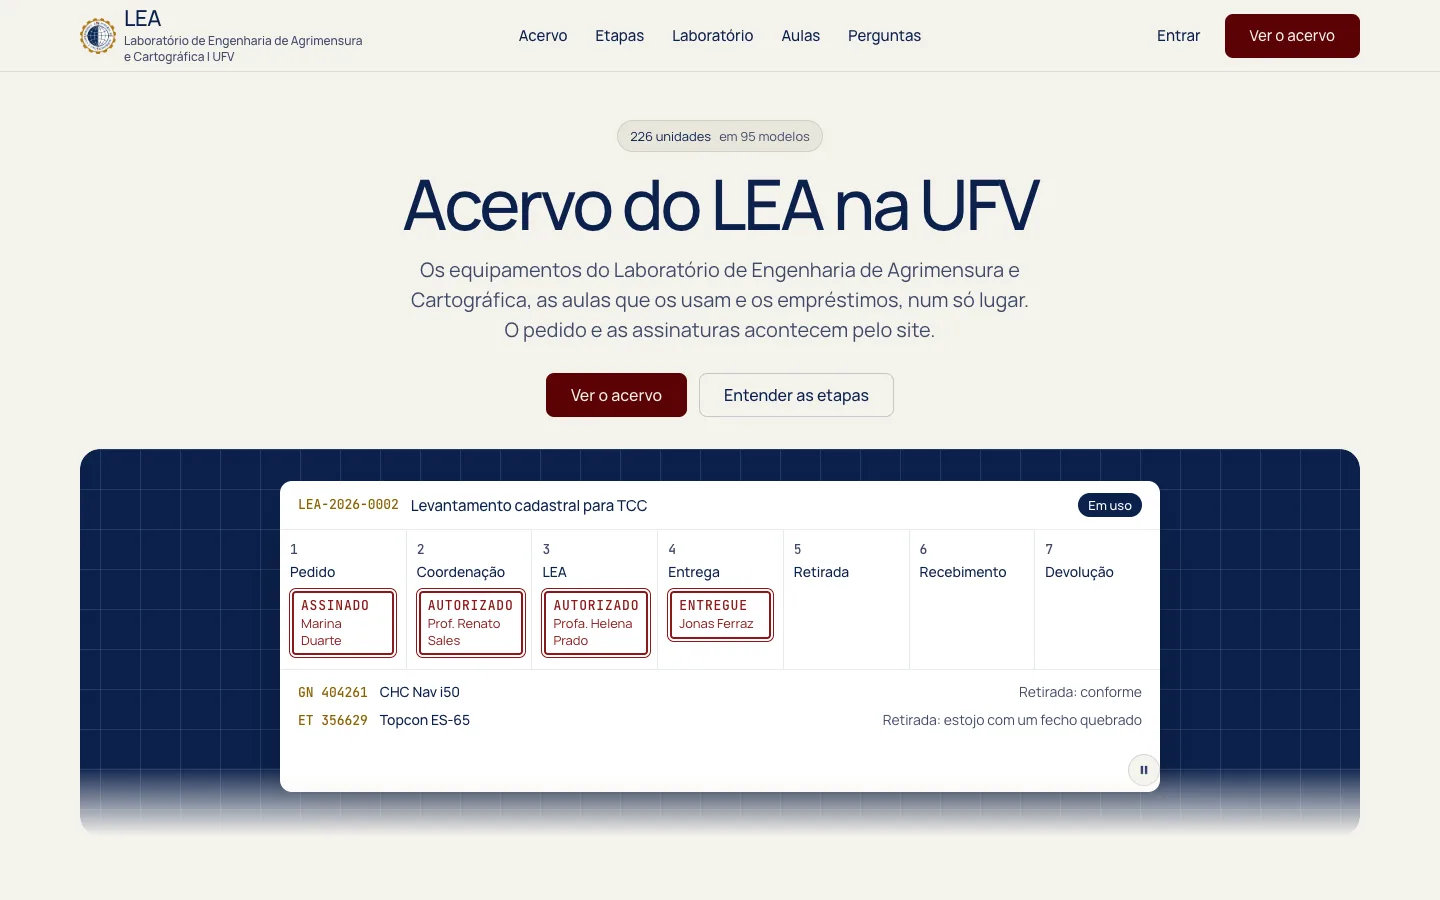
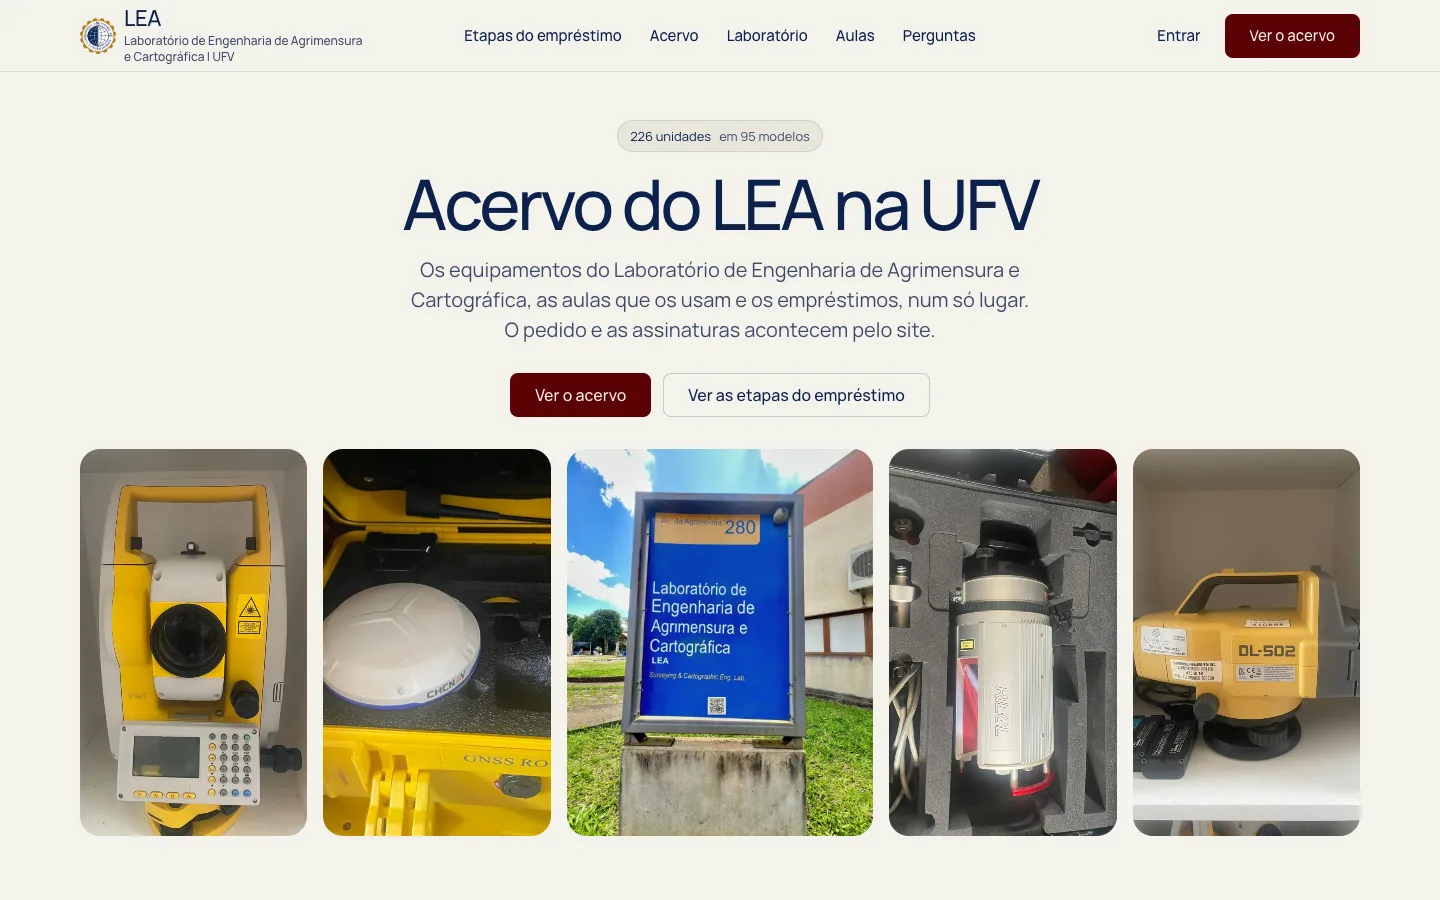
Topo com a placa e equipamentos, ficha do empréstimo em seção própria
As fotos da placa do LEA e de quatro equipamentos abrem a página; a
ficha animada das sete assinaturas ganha título logo abaixo. Menu com
Etapas do empréstimo e endereço corrigido para a Avenida dos Lagos.

diff --git a/public/index.html b/public/index.html
@@ -46,6 +46,8 @@
 <style>
   .nav__logo img { width: 36px; height: 36px; }
   .nav__nome { display: grid; gap: 4px; }
+  .nav-curto { display: none; }
+  @media (min-width: 640px) and (max-width: 1365px) { .nav-longo { display: none; } .nav-curto { display: inline; } .nav-perguntas { display: none; } }
   .nav__nome b { font-weight: 500; }
   .nav__nome small { font: 500 12px/1.3 var(--font-text); letter-spacing: 0; color: var(--p-muted); }
   .nav__nome small span { white-space: nowrap; }
@@ -64,11 +66,27 @@
     .nav__actions .btn--primary { display: none; }
   }
 
-  /* o prédio: três fotos em pé lado a lado */
-  .predio-fotos { display: grid; grid-template-columns: repeat(3, minmax(0, 1fr)); gap: var(--s-5); margin-top: var(--s-7); }
-  .predio-fotos .frame { --ratio: 125%; margin: 0; }
-  .predio-fotos .frame__img { width: 100%; height: 100%; object-fit: cover; }
-  @media (max-width: 639px) { .predio-fotos { grid-template-columns: 1fr 1fr; gap: var(--s-3); } .predio-fotos .frame:first-child { grid-column: 1 / -1; --ratio: 80%; } .predio-fotos .frame__img { object-position: 50% 40%; } }
+  /* topo: a placa do LEA ao centro, quatro equipamentos do acervo ao redor */
+  .hero--centred .hero__window.topo-fotos { background: none; -webkit-mask-image: none; mask-image: none; overflow: visible; border-radius: 0;
+    display: grid; grid-template-columns: 1fr 1fr 1.35fr 1fr 1fr; gap: var(--s-4); min-height: clamp(260px, 40svh, 460px); }
+  .topo-fotos figure { margin: 0; position: relative; overflow: hidden; border-radius: var(--r-lg); background: var(--p-surface); }
+  .topo-fotos img { position: absolute; inset: 0; width: 100%; height: 100%; object-fit: cover; transition: transform .5s cubic-bezier(.2,.7,.2,1); }
+  .topo-fotos figure:hover img { transform: scale(1.03); }
+  .topo-fotos .topo-placa img { object-position: 50% 45%; }
+  @media (max-width: 1023px) { .hero--centred .hero__window.topo-fotos { grid-template-columns: 1fr 1.35fr 1fr; } .topo-fotos .topo-lado { display: none; } }
+  @media (max-width: 639px) { .hero--centred .hero__window.topo-fotos { gap: var(--s-2); min-height: 236px; } }
+  @media (prefers-reduced-motion: reduce) { .topo-fotos img { transition: none; } }
+
+  /* empréstimo: a ficha animada sobre a malha da marca */
+  .lea-janela { margin-top: var(--s-7); border-radius: var(--r-lg); padding: clamp(20px, 7vw, 104px) clamp(20px, 5vw, 64px); background-color: #0c214c; background-image: linear-gradient(rgb(151 177 231 / .16) 1px, transparent 1px), linear-gradient(90deg, rgb(151 177 231 / .16) 1px, transparent 1px); background-size: 40px 40px; background-position: center top; }
+  .lea-janela .lea-ficha { max-width: 980px; margin-inline: auto; }
+  @media (max-width: 639px) { .lea-janela { padding: var(--s-3); } }
+
+  /* o prédio: fachada e pátio lado a lado */
+  .predio-fotos { display: grid; grid-template-columns: repeat(2, minmax(0, 1fr)); gap: var(--s-5); margin-top: var(--s-7); }
+  .predio-fotos .frame { --ratio: 78%; margin: 0; }
+  .predio-fotos .frame__img { width: 100%; height: 100%; object-fit: cover; object-position: 50% 62%; }
+  @media (max-width: 639px) { .predio-fotos { gap: var(--s-3); } .predio-fotos .frame { --ratio: 140%; } }
   .lea-apoio { display: flex; gap: var(--s-6); align-items: center; margin: var(--s-4) 0 0; }
   .lea-apoio img { height: 60px; width: auto; }
   .close__word { line-height: 1.38; overflow: visible; }
@@ -95,8 +113,7 @@
   .lea-cota { font: 500 13px/1.3 var(--font-mono); color: #8a6207; }
   .lea b, .lea strong { font-weight: 500; }
 
-  /* herói: a ficha de um pedido sobre a malha da marca */
-  .hero--centred .hero__window { background-color: #0c214c; background-image: linear-gradient(rgb(151 177 231 / .16) 1px, transparent 1px), linear-gradient(90deg, rgb(151 177 231 / .16) 1px, transparent 1px); background-size: 40px 40px; background-position: center top; }
+  /* a ficha de um pedido */
   .lea-ficha { background: var(--u-bg); border-radius: 12px; box-shadow: 0 24px 60px -24px rgb(0 0 0 / .6); overflow: hidden; }
   .lea-ficha__bar { display: flex; align-items: center; gap: 12px; padding: 12px 18px; border-bottom: 1px solid var(--u-line); }
   .lea-ficha__bar b { font-size: 15px; }
@@ -113,16 +130,14 @@
   .lea-linhas { border-top: 1px solid var(--u-line); padding: 12px 18px 18px; display: grid; gap: 8px; }
   .lea-linhas p { margin: 0; display: flex; gap: 12px; align-items: baseline; }
   .lea-linhas p span:last-child { margin-left: auto; color: var(--u-muted); }
-  @media (max-width: 1279px), (max-height: 859px) { .lea-linhas { display: none; } }
   @media (max-width: 899px) {
     .lea-casas { grid-template-columns: 1fr; }
     .lea-casa { min-height: 0; grid-template-columns: 20px 96px 1fr; align-items: center; border-left: 0; border-top: 1px solid var(--u-line); padding: 8px 14px; }
     .lea-casa:first-child { border-top: 0; }
     .lea-carimbo { margin: 0; }
-    .lea-linhas, .lea-ficha__bar .lea-cota { display: none; }
-  }
-  @media (max-width: 639px) {
-    .lea-casa:nth-child(n+5) { display: none; }
+    .lea-ficha__bar .lea-cota { display: none; }
+    .lea-linhas p { flex-wrap: wrap; column-gap: 12px; row-gap: 2px; }
+    .lea-linhas p span:last-child { margin-left: 0; flex-basis: 100%; }
   }
 
   /* acervo: a janela do sistema, lista e item aberto (receita app-frame) */
@@ -193,11 +208,11 @@
     <a class="skip-link" href="#top">Ir para o conteúdo</a>
     <a class="nav__logo" href="#top"><img src="marca/selo.png" alt="" width="36" height="36"><span class="nav__nome"><b>LEA</b><small><span>Laboratório de Engenharia de Agrimensura</span> <span>e Cartográfica | UFV</span></small></span></a>
     <nav class="nav__links" aria-label="Principal">
+      <div class="nav__item"><a class="nav__link" href="#emprestimo"><span class="nav-longo">Etapas do empréstimo</span><span class="nav-curto">Empréstimo</span></a></div>
       <div class="nav__item"><a class="nav__link" href="#acervo">Acervo</a></div>
-      <div class="nav__item"><a class="nav__link" href="#etapas">Etapas</a></div>
       <div class="nav__item"><a class="nav__link" href="#predio">Laboratório</a></div>
       <div class="nav__item"><a class="nav__link" href="#aulas">Aulas</a></div>
-      <div class="nav__item"><a class="nav__link" href="#faq">Perguntas</a></div>
+      <div class="nav__item nav-perguntas"><a class="nav__link" href="#faq">Perguntas</a></div>
     </nav>
     <div class="nav__actions">
       <a class="nav__link" href="acervo.html#/entrar">Entrar</a>
@@ -216,10 +231,29 @@
         <a class="pill" href="#acervo"><span>226 unidades</span><span class="muted">em 95 modelos</span></a>
         <h1 id="hero-h">Acervo do LEA na UFV</h1>
         <p class="hero__lead">Os equipamentos do Laboratório de Engenharia de Agrimensura e Cartográfica, as aulas que os usam e os empréstimos, num só lugar. O pedido e as assinaturas acontecem pelo site.</p>
-        <div class="btn-row"><a class="btn btn--primary" href="acervo.html">Ver o acervo</a><a class="btn btn--secondary" href="#etapas">Entender as etapas</a></div>
+        <div class="btn-row"><a class="btn btn--primary" href="acervo.html">Ver o acervo</a><a class="btn btn--secondary" href="#emprestimo">Ver as etapas do empréstimo</a></div>
       </div>
-      <div class="hero__window" role="img" aria-label="Ficha de um pedido de empréstimo com as sete assinaturas: pedido, coordenação, LEA, entrega, retirada, recebimento e devolução">
-        <div class="ly-piece ui lea lea-ficha" aria-hidden="true">
+      <div class="hero__window topo-fotos">
+        <figure class="topo-lado"><img src="equip/geodetic-gd2i.webp" alt="Estação total Geodetic GD2i no armário do almoxarifado" width="750" height="1000" data-source="client" data-subject="estação total do LEA"></figure>
+        <figure><img src="equip/chc-nav-i50.webp" alt="Receptor GNSS CHC Nav i50 no estojo amarelo" width="1000" height="750" data-source="client" data-subject="receptor GNSS do LEA"></figure>
+        <figure class="topo-placa"><img src="lea/placa.webp" srcset="lea/placa-480.webp 480w, lea/placa.webp 900w" sizes="(max-width: 639px) 40vw, 380px" alt="Placa azul na entrada do Laboratório de Engenharia de Agrimensura e Cartográfica" width="900" height="1200" data-source="client" data-subject="placa do LEA"></figure>
+        <figure><img src="equip/riegl-vz-400.webp" alt="Laser scanner Riegl VZ-400 no estojo de espuma" width="750" height="1000" data-source="client" data-subject="laser scanner do LEA"></figure>
+        <figure class="topo-lado"><img src="equip/nivel-topcon-dl-502.webp" alt="Nível digital Topcon DL-502 com a bateria" width="750" height="1000" data-source="client" data-subject="nível do LEA"></figure>
+      </div>
+    </div></div>
+  </section>
+
+  <section class="section" id="emprestimo" aria-labelledby="emprestimo-h">
+    <div class="wrap">
+      <div class="grid">
+        <h2 class="span-5" id="emprestimo-h">O empréstimo, do pedido à devolução</h2>
+        <div class="span-6 start-7 stack-4">
+          <p class="muted">Cada pedido tem uma ficha com sete assinaturas: quem pede, a coordenação, o LEA, o técnico na entrega, o ciente de retirada, o recebimento e o ciente de devolução. Todas ficam com nome, data e hora.</p>
+          <p><a class="link" href="#etapas">Entender cada etapa</a></p>
+        </div>
+      </div>
+      <div class="lea-janela">
+        <div class="ui lea lea-ficha" role="img" aria-label="Ficha de um pedido de empréstimo com as sete assinaturas: pedido, coordenação, LEA, entrega, retirada, recebimento e devolução">
           <div class="lea-ficha__bar"><span class="lea-cota">LEA-2026-0002</span><b>Levantamento cadastral para TCC</b><span class="sp"></span><span class="lea-chip lea-chip--azul">Em uso</span></div>
           <div class="lea-casas" data-ly-steps="900">
             <div class="lea-casa"><span>1</span><b>Pedido</b><div class="lea-carimbo"><b>Assinado</b>Marina Duarte</div></div>
@@ -235,58 +269,6 @@
             <p><span class="lea-cota">ET [removido]</span><b>Topcon ES-65</b><span>Retirada: estojo com um fecho quebrado</span></p>
           </div>
         </div>
-      </div>
-    </div></div>
-  </section>
-
-  <section class="section" id="acervo" aria-labelledby="acervo-h">
-    <div class="wrap">
-      <div class="grid">
-        <h2 class="span-5" id="acervo-h">Acervo com a situação de cada unidade</h2>
-        <div class="span-6 start-7 stack-4">
-          <p class="muted">São 95 modelos e 226 unidades, de estações totais a teodolitos e planímetros. Cada marca é uma unidade: disponível, em aula, emprestada ou em manutenção nas datas que você escolher.</p>
-          <p><a class="link" href="acervo.html#/equipamento/geodetic-gd2i">Abrir a estação total GD2i</a></p>
-        </div>
-      </div>
-      <div class="ui app fill lea" role="img" aria-label="Janela do sistema: a lista de equipamentos ao lado da estação total Geodetic GD2i, com seis unidades e a situação de cada uma">
-        <div class="app__pane app__pane--list" aria-hidden="true"><div class="lea-rolo" role="img">
-          <div class="lea-lista__cab"><span class="lea-aba is-on">Tudo</span><span class="lea-aba">Estações totais</span><span class="lea-aba">GNSS e RTK</span><span class="lea-aba">Níveis</span></div>
-          <div class="lea-item is-on"><img src="equip/geodetic-gd2i.webp" alt=""><div><b>Geodetic GD2i</b><small>2 de 6 livres</small></div><span class="lea-pips"><i></i><i></i><i class="aula"></i><i class="aula"></i><i class="aula"></i><i class="aula"></i></span></div>
-          <div class="lea-item"><img src="equip/geodetic-gd8i.webp" alt=""><div><b>Geodetic GD8i</b><small>2 de 2 livres</small></div><span class="lea-pips"><i></i><i></i></span></div>
-          <div class="lea-item"><img src="equip/topcon-es-65.webp" alt=""><div><b>Topcon ES-65</b><small>Emprestada até 20 nov</small></div><span class="lea-pips"><i class="fora"></i></span></div>
-          <div class="lea-item"><img src="equip/rtk-topomap-t10.webp" alt=""><div><b>Topomap T10</b><small>1 de 1 livre</small></div><span class="lea-pips"><i></i></span></div>
-          <div class="lea-item"><img src="equip/chc-nav-i50.webp" alt=""><div><b>CHC Nav i50</b><small>Emprestada até 20 nov</small></div><span class="lea-pips"><i class="fora"></i></span></div>
-          <div class="lea-item"><img src="equip/javad-trimph-1.webp" alt=""><div><b>Javad Triumph-1</b><small>1 de 1 livre</small></div><span class="lea-pips"><i></i></span></div>
-          <div class="lea-item"><img src="equip/riegl-vz-400.webp" alt=""><div><b>Riegl VZ-400</b><small>1 de 1 livre</small></div><span class="lea-pips"><i></i></span></div>
-          <div class="lea-item"><img src="equip/nivel-topcon-dl-502.webp" alt=""><div><b>Topcon DL-502</b><small>1 de 1 livre</small></div><span class="lea-pips"><i></i></span></div>
-          <div class="lea-item"><img src="equip/batmap-ii.webp" alt=""><div><b>Batmap II</b><small>1 de 1 livre</small></div><span class="lea-pips"><i></i></span></div>
-          <div class="lea-item"><img src="equip/gerador-buffalo-bfg-2500.webp" alt=""><div><b>Buffalo BFG 2500</b><small>1 de 1 livre</small></div><span class="lea-pips"><i></i></span></div>
-        </div></div>
-        <div class="app__pane app__pane--open" aria-hidden="true"><div class="lea-rolo" role="img">
-          <div class="lea-aberto">
-            <img src="equip/geodetic-gd2i.webp" alt="">
-            <div class="lea-aberto__dados">
-              <span class="lea-cota">ET | Estações totais</span>
-              <h3>Geodetic GD2i</h3>
-              <span class="lea-chip">Em aula: EAM 300 | qua 8h–12h</span>
-              <div>
-                <div class="lea-un"><span class="lea-pips"><i></i></span><span>ET s/n [removido]</span><span class="lea-btn">Pedir esta</span></div>
-                <div class="lea-un"><span class="lea-pips"><i></i></span><span>ET s/n [removido]</span><span class="lea-btn">Pedir esta</span></div>
-                <div class="lea-un"><span class="lea-pips"><i class="aula"></i></span><span>ET s/n [removido]</span><em>Em aula</em></div>
-                <div class="lea-un"><span class="lea-pips"><i class="aula"></i></span><span>ET s/n [removido]</span><em>Em aula</em></div>
-                <div class="lea-un"><span class="lea-pips"><i class="aula"></i></span><span>ET s/n [removido]</span><em>Em aula</em></div>
-                <div class="lea-un"><span class="lea-pips"><i class="aula"></i></span><span>ET s/n [removido]</span><em>Em aula</em></div>
-              </div>
-              <b>Aulas práticas que usam este modelo</b>
-              <div>
-                <div class="lea-un"><span></span><span>EAM 300 | ter 8h–10h</span><em>4 unidades</em></div>
-                <div class="lea-un"><span></span><span>EAM 300 | qua 8h–12h</span><em>4 unidades</em></div>
-                <div class="lea-un"><span></span><span>EAM 301 | qui 8h–10h</span><em>4 unidades</em></div>
-                <div class="lea-un"><span></span><span>EAM 301 | sex 8h–10h</span><em>4 unidades</em></div>
-              </div>
-            </div>
-          </div>
-        </div></div>
       </div>
     </div>
   </section>
@@ -342,18 +324,70 @@
     </div>
   </section>
 
+  <section class="section" id="acervo" aria-labelledby="acervo-h">
+    <div class="wrap">
+      <div class="grid">
+        <h2 class="span-5" id="acervo-h">Acervo com a situação de cada unidade</h2>
+        <div class="span-6 start-7 stack-4">
+          <p class="muted">São 95 modelos e 226 unidades, de estações totais a teodolitos e planímetros. Cada marca é uma unidade: disponível, em aula, emprestada ou em manutenção nas datas que você escolher.</p>
+          <p><a class="link" href="acervo.html#/equipamento/geodetic-gd2i">Abrir a estação total GD2i</a></p>
+        </div>
+      </div>
+      <div class="ui app fill lea" role="img" aria-label="Janela do sistema: a lista de equipamentos ao lado da estação total Geodetic GD2i, com seis unidades e a situação de cada uma">
+        <div class="app__pane app__pane--list" aria-hidden="true"><div class="lea-rolo" role="img">
+          <div class="lea-lista__cab"><span class="lea-aba is-on">Tudo</span><span class="lea-aba">Estações totais</span><span class="lea-aba">GNSS e RTK</span><span class="lea-aba">Níveis</span></div>
+          <div class="lea-item is-on"><img src="equip/geodetic-gd2i.webp" alt=""><div><b>Geodetic GD2i</b><small>2 de 6 livres</small></div><span class="lea-pips"><i></i><i></i><i class="aula"></i><i class="aula"></i><i class="aula"></i><i class="aula"></i></span></div>
+          <div class="lea-item"><img src="equip/geodetic-gd8i.webp" alt=""><div><b>Geodetic GD8i</b><small>2 de 2 livres</small></div><span class="lea-pips"><i></i><i></i></span></div>
+          <div class="lea-item"><img src="equip/topcon-es-65.webp" alt=""><div><b>Topcon ES-65</b><small>Emprestada até 20 nov</small></div><span class="lea-pips"><i class="fora"></i></span></div>
+          <div class="lea-item"><img src="equip/rtk-topomap-t10.webp" alt=""><div><b>Topomap T10</b><small>1 de 1 livre</small></div><span class="lea-pips"><i></i></span></div>
+          <div class="lea-item"><img src="equip/chc-nav-i50.webp" alt=""><div><b>CHC Nav i50</b><small>Emprestada até 20 nov</small></div><span class="lea-pips"><i class="fora"></i></span></div>
+          <div class="lea-item"><img src="equip/javad-trimph-1.webp" alt=""><div><b>Javad Triumph-1</b><small>1 de 1 livre</small></div><span class="lea-pips"><i></i></span></div>
+          <div class="lea-item"><img src="equip/riegl-vz-400.webp" alt=""><div><b>Riegl VZ-400</b><small>1 de 1 livre</small></div><span class="lea-pips"><i></i></span></div>
+          <div class="lea-item"><img src="equip/nivel-topcon-dl-502.webp" alt=""><div><b>Topcon DL-502</b><small>1 de 1 livre</small></div><span class="lea-pips"><i></i></span></div>
+          <div class="lea-item"><img src="equip/batmap-ii.webp" alt=""><div><b>Batmap II</b><small>1 de 1 livre</small></div><span class="lea-pips"><i></i></span></div>
+          <div class="lea-item"><img src="equip/gerador-buffalo-bfg-2500.webp" alt=""><div><b>Buffalo BFG 2500</b><small>1 de 1 livre</small></div><span class="lea-pips"><i></i></span></div>
+        </div></div>
+        <div class="app__pane app__pane--open" aria-hidden="true"><div class="lea-rolo" role="img">
+          <div class="lea-aberto">
+            <img src="equip/geodetic-gd2i.webp" alt="">
+            <div class="lea-aberto__dados">
+              <span class="lea-cota">ET | Estações totais</span>
+              <h3>Geodetic GD2i</h3>
+              <span class="lea-chip">Em aula: EAM 300 | qua 8h–12h</span>
+              <div>
+                <div class="lea-un"><span class="lea-pips"><i></i></span><span>ET s/n [removido]</span><span class="lea-btn">Pedir esta</span></div>
+                <div class="lea-un"><span class="lea-pips"><i></i></span><span>ET s/n [removido]</span><span class="lea-btn">Pedir esta</span></div>
+                <div class="lea-un"><span class="lea-pips"><i class="aula"></i></span><span>ET s/n [removido]</span><em>Em aula</em></div>
+                <div class="lea-un"><span class="lea-pips"><i class="aula"></i></span><span>ET s/n [removido]</span><em>Em aula</em></div>
+                <div class="lea-un"><span class="lea-pips"><i class="aula"></i></span><span>ET s/n [removido]</span><em>Em aula</em></div>
+                <div class="lea-un"><span class="lea-pips"><i class="aula"></i></span><span>ET s/n [removido]</span><em>Em aula</em></div>
+              </div>
+              <b>Aulas práticas que usam este modelo</b>
+              <div>
+                <div class="lea-un"><span></span><span>EAM 300 | ter 8h–10h</span><em>4 unidades</em></div>
+                <div class="lea-un"><span></span><span>EAM 300 | qua 8h–12h</span><em>4 unidades</em></div>
+                <div class="lea-un"><span></span><span>EAM 301 | qui 8h–10h</span><em>4 unidades</em></div>
+                <div class="lea-un"><span></span><span>EAM 301 | sex 8h–10h</span><em>4 unidades</em></div>
+              </div>
+            </div>
+          </div>
+        </div></div>
+      </div>
+    </div>
+  </section>
+
+
   <section class="section" id="predio" aria-labelledby="predio-h">
     <div class="wrap">
       <div class="grid">
         <h2 class="span-5" id="predio-h">O prédio do LEA no campus</h2>
         <div class="span-6 start-7 stack-4">
-          <p class="muted">O laboratório fica na Avenida da Agronomia, no campus da UFV em Viçosa. O pátio em frente ao prédio recebe as práticas de campo com os equipamentos do acervo.</p>
+          <p class="muted">O laboratório fica na Avenida dos Lagos, no campus da UFV em Viçosa (MG). O pátio em frente ao prédio recebe as práticas de campo com os equipamentos do acervo.</p>
         </div>
       </div>
       <div class="predio-fotos">
-        <figure class="frame frame--photo"><img class="frame__img" src="lea/placa.webp" srcset="lea/placa-480.webp 480w, lea/placa.webp 900w" sizes="(max-width: 639px) 100vw, 420px" alt="Placa azul na entrada: Laboratório de Engenharia de Agrimensura e Cartográfica, LEA, Avenida da Agronomia" width="900" height="1200" loading="lazy" data-source="client" data-subject="placa do LEA"></figure>
-        <figure class="frame frame--photo"><img class="frame__img" src="lea/fachada.webp" srcset="lea/fachada-480.webp 480w, lea/fachada.webp 900w" sizes="(max-width: 639px) 50vw, 420px" alt="Fachada do LEA vista da rua, com o portão de grade e a placa diante da entrada" width="900" height="1273" loading="lazy" data-source="client" data-subject="fachada do LEA"></figure>
-        <figure class="frame frame--photo"><img class="frame__img" src="lea/patio.webp" srcset="lea/patio-480.webp 480w, lea/patio.webp 900w" sizes="(max-width: 639px) 50vw, 420px" alt="O prédio do LEA visto do pátio, com o gramado e o calçamento de pedra em frente à porta" width="900" height="1338" loading="lazy" data-source="client" data-subject="pátio do LEA"></figure>
+        <figure class="frame frame--photo"><img class="frame__img" src="lea/fachada.webp" srcset="lea/fachada-480.webp 480w, lea/fachada.webp 900w" sizes="(max-width: 639px) 50vw, 640px" alt="Fachada do LEA vista da rua, com o portão de grade e a placa diante da entrada" width="900" height="1273" loading="lazy" data-source="client" data-subject="fachada do LEA"></figure>
+        <figure class="frame frame--photo"><img class="frame__img" src="lea/patio.webp" srcset="lea/patio-480.webp 480w, lea/patio.webp 900w" sizes="(max-width: 639px) 50vw, 640px" alt="O prédio do LEA visto do pátio, com o gramado e o calçamento de pedra em frente à porta" width="900" height="1338" loading="lazy" data-source="client" data-subject="pátio do LEA"></figure>
       </div>
     </div>
   </section>
@@ -425,7 +459,7 @@
           <p class="footer__lede">Laboratório de Engenharia de Agrimensura e Cartográfica da UFV.</p>
           <p class="lea-apoio"><img src="marca/ufv.png" alt="Universidade Federal de Viçosa" width="77" height="60"><img src="marca/assinatura.png" alt="EAM, Engenharia de Agrimensura e Cartográfica" width="121" height="60"></p>
         </div>
-        <div class="span-2 start-9 footer__col"><h3>Página</h3><ul><li><a href="#acervo">Acervo</a></li><li><a href="#etapas">Etapas</a></li><li><a href="#predio">Laboratório</a></li><li><a href="#aulas">Aulas</a></li><li><a href="#faq">Perguntas</a></li></ul></div>
+        <div class="span-2 start-9 footer__col"><h3>Página</h3><ul><li><a href="#emprestimo">Etapas do empréstimo</a></li><li><a href="#acervo">Acervo</a></li><li><a href="#predio">Laboratório</a></li><li><a href="#aulas">Aulas</a></li><li><a href="#faq">Perguntas</a></li></ul></div>
         <div class="span-2 footer__col"><h3>Sistema</h3><ul><li><a href="acervo.html">Ver o acervo</a></li><li><a href="acervo.html#/entrar">Entrar</a></li></ul></div>
       </div>
       <div class="footer__legal">

diff --git a/README.md b/README.md
@@ -68,7 +68,7 @@ flowchart LR
 
 | Página inicial | Acervo |
 | --- | --- |
-| <img src="docs/inicio.webp" alt="Página inicial com a ficha de um pedido e as assinaturas"> | <img src="docs/acervo.webp" alt="Catálogo de equipamentos com a situação de cada unidade"> |
+| <img src="docs/inicio.webp" alt="Página inicial com a placa do LEA e fotos de equipamentos do acervo"> | <img src="docs/acervo.webp" alt="Catálogo de equipamentos com a situação de cada unidade"> |
 | **Equipamento** | **Aulas práticas** |
 | <img src="docs/equipamento.webp" alt="Página de uma estação total com as unidades e o botão de pedido"> | <img src="docs/aulas.webp" alt="Horário das disciplinas EAM com os equipamentos de cada aula prática"> |
 
@@ -97,7 +97,7 @@ matrícula e telefone, que entram no termo de responsabilidade.
 
 ## Onde fica
 
-O LEA fica na Avenida da Agronomia, no campus da UFV em Viçosa. Os equipamentos ficam no
+O LEA fica na Avenida dos Lagos, no campus da UFV em Viçosa (MG). Os equipamentos ficam no
 almoxarifado da sala 108, com atendimento das 7h às 12h e das 13h às 18h.
 
 <p align="center">
